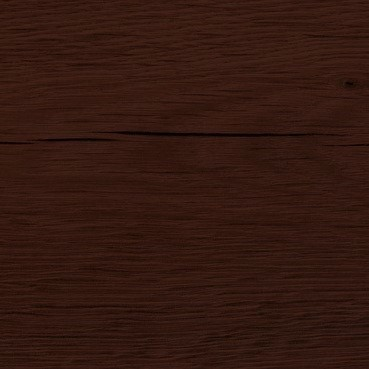
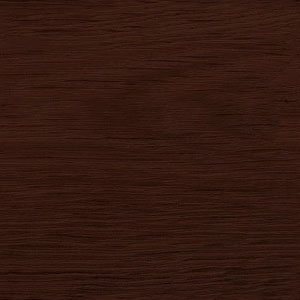
ver 1.3

diff --git a/ppnm1/templates/main/index.html b/ppnm1/templates/main/index.html
@@ -24,14 +24,14 @@
                 <div class="justify-content-center text-center">
                     <h3 class="gold">Добро пожаловать к нам в парк!</h3>
                     <p class="text-hyphens">В нашем красивом лесном парке есть всё для Вашего отдыха: видовые мангальные полянки, уютные беседки и мостки для рыбалки.</p>
-                    <button class="btn text-white main-color" onclick="clW_f56c22ef9397548711f382ef804b07b3.openform();">
+                    <a class="btn text-white main-color" href="#booking">
                         <span class="gold">Забронировать</span>
-                    </button>
+                    </a>
                 </div>
             </div>
         </div>
         <div class="cover">
-            <img src="{% static 'img/img1.jpg' %}" class="cover-image-background filter-dark">
+            <!-- <img src="{% static 'img/img1.jpg' %}" class="cover-image-background filter-dark"> -->
             <div class="cover-inner-container">
                 <div class="justify-content-center text-center">
                     <p><a href="https://yandex.ru/maps/-/CCUFQCV6lB" target="_blank">
@@ -43,7 +43,7 @@
             </div>
         </div>
         <div class="cover">
-            <img src="{% static 'img/img1.jpg' %}" class="cover-image-background filter-dark">
+            <!-- <img src="{% static 'img/img1.jpg' %}" class="cover-image-background filter-dark"> -->
             <div class="cover-inner-container">
                 <div class="justify-content-center text-center">
                     <h3 class="gold">Выбирайте как Вы хотите провести этот замечательный день:</h3>
@@ -54,7 +54,7 @@
             </div>
         </div>
         <div class="cover">
-            <img src="{% static 'img/img1.jpg' %}" class="cover-image-background filter-dark">
+            <!-- <img src="{% static 'img/img1.jpg' %}" class="cover-image-background filter-dark"> -->
             <div class="cover-inner-container">
                 <div class="justify-content-center text-center">
                     <p class="lead text-left">⁃ выбраться на природу семьёй или дружной компанией?</p>
@@ -64,7 +64,7 @@
             </div>
         </div>
         <div class="cover">
-            <img src="{% static 'img/img1.jpg' %}" class="cover-image-background filter-dark">
+            <!-- <img src="{% static 'img/img1.jpg' %}" class="cover-image-background filter-dark"> -->
             <div class="cover-inner-container">
                 <div class="justify-content-center text-center">
                     <p class="lead text-left">⁃ отпраздновать свадьбу? День рождения? Корпоратив? Тимбилдинг? Устроить встречу выпускников? Отметить последнюю пятницу на неделе?</p>
@@ -73,14 +73,15 @@
                 </div>
             </div>
         </div>
-        <div class="cover">
-            <img src="{% static 'img/img1.jpg' %}" class="cover-image-background filter-dark">
+        <div class="cover" id="booking">
+            <!-- <img src="{% static 'img/img1.jpg' %}" class="cover-image-background filter-dark"> -->
             <div class="cover-inner-container">
                 <div class="justify-content-center text-center">
-                    <p>Бронь и оплату можно удобно и быстро произвести здесь:</p>
-                    <button class="btn text-white main-color" onclick="clW_f56c22ef9397548711f382ef804b07b3.openform();">
-                        <span class="gold">Забронировать</span>
-                    </button>
+                    <p class="mb-3" style="margin: auto;">Бронь и оплату можно удобно и быстро произвести здесь:</p>
+                    <div>
+                        <div id="CLOFF_HOTEL_WIDGET" style="width:100%;"></div>
+                        <script>jcClWidgetBookingf56c22ef9397548711f382ef804b07b3.openform("CLOFF_HOTEL_WIDGET");</script>
+                    </div>
                 </div>
             </div>
         </div>

diff --git a/ppnm1/static/css/main.css b/ppnm1/static/css/main.css
@@ -1,5 +1,8 @@
+html {
+    scroll-behavior: smooth;
+}
+
 body {
-    background-color: #013220;
     color: white;
     min-width: 300px;
 }
@@ -33,9 +36,7 @@ p {
 }
 
 .gold {
-    /* text-transform: uppercase; */
     color: transparent;
-    /* font-weight: bold; */
     background-image: linear-gradient(to right, #f6e27a 0, #cb9b51 22%, #f6e27a 45%, #f6f2c0 50%, #f6e27a 55%, #cb9b51 78%, #f6e27a 100%);
     background-clip: text;
     -webkit-background-clip: text;
@@ -46,7 +47,7 @@ p {
 }
 
 .background-tile-1 {
-    background-image: url('../img/tile2.jpg');
+    background-image: url('../img/tile1.jpg');
     background-repeat: repeat;
 }
 
